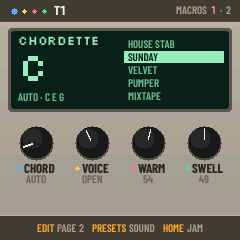
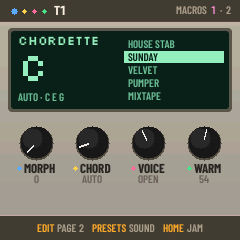
TFM-UI round 8: the report and the re-rendered screens -- NIGHT-REPORT-UI.md Round 8 (sizes per item, findings: the order-dependent audit, the dead FM6 macros, the DJ filter, the key split, OCT+ LATCH vs the rate, the pitched lane's old-save caveat, live pitch left for later), tfm-spec/built with TR

diff --git a/tests/ui_test_r6.h b/tests/ui_test_r6.h
@@ -24,9 +24,14 @@ static void r6_fresh(void)
     memset(eng_mem, 0, sizeof eng_mem);                 /* (the parts' engine state: the drum lanes, FM6 notes, strings) */
     memset(eng_mem_owner, 0, sizeof eng_mem_owner);
     memset(&fx, 0, sizeof fx); memset(&hl, 0, sizeof hl);
-    vage = 0; uni_seed = 0x1234567u; memset(mod_w, 0, sizeof mod_w);
+    vage = 0; uni_seed = 0x1234567u; MOD_W_CLEAR();
     memset(fm6_lfo, 0, sizeof fm6_lfo); memset(drw_t, 0, sizeof drw_t); memset(drw_v, 0, sizeof drw_v);   /* (FM6's LFOs, */
-    { uint32_t q; for (q = 0; q < NTRK; q++) { formant_nz[q] = 0x2545F491; phys_nz[q] = 0x6A09E667; } }   /* WHEEL's rotor, the noises) */ memset(drum_mute, 0, sizeof drum_mute);   /* (the buses: the delay and chorus write heads, the chorus phase, HALL) */
+#if FELUCCA_CPU2
+    { uint32_t q; for (q = 0; q < NTRK; q++) { formant_nz[q] = 0x2545F491; phys_nz[q] = 0x6A09E667; } }   /* WHEEL's rotor, the noises) */
+#else
+    formant_nz = 0x2545F491;                            /* (one core: one breath noise; PHYS reseeds from rng()) */
+#endif
+    memset(drum_mute, 0, sizeof drum_mute);   /* (the buses: the delay and chorus write heads, the chorus phase, HALL) */
     lim_env = 0; dc_l = dc_r = dce_l = dce_r = 0;     /* (the master limiter and its DC blockers: a loud render before held it down) */
     memset(dj_s1, 0, sizeof dj_s1); memset(dj_s2, 0, sizeof dj_s2); memset((void *)dj_f, 0, sizeof dj_f);
 }

diff --git a/NIGHT-REPORT-UI.md b/NIGHT-REPORT-UI.md
@@ -283,3 +283,20 @@ Branch `tfm-ui`: `95435e4` (1), `91ff2d2` (2 and 4: one commit, they share tfm_f
 **Tests:** tests/ui_test_r6.h (round 7 section): `test_r7_instruments`, `test_r7_noinst`, `test_r7_build`.
 
 **Suite (round 7):** tests=0 (ALL HOST TESTS PASSED), no FAIL lines, target_budget 0 (the audio ISR 8,705 against 8,285: +5 %, unchanged from round 6). 0 lint findings, both renders 0 off. Final build 503,164 B, RAM 63,224 B, pool 365,752 B. Published as the installer preview (next/), the tested release at the root unchanged.
+
+## Round 8 (ROUND-8.md: DJ, MORPH, bolder macros, three drum kits, a pitched lane, JAM's header)
+
+Branch `tfm-ui`: `725c734` (1), `6d493a8` (2), `9d54c13` (3), `049b94c` (4), `62e3b27` (5), `668447e` (6). Package `tilt-fm-ui-r8-<sha>.fwsc`. Nothing was run on an FM-1.
+
+**Flash and RAM** (app image / RAM .data+.bss; pool 365,752 B throughout): round 7 final 503,164 / 63,224. Item 1: 504,788 / 63,320. Item 2: 503,736 / 63,384 (one macro per instrument fewer). Item 3: 503,760. Item 4: 506,612. Item 5: 507,448 / 63,400. Item 6: 507,496 / 63,400 (headroom 4,184 B). Flash slot 581,564 B.
+
+1. **Hold ARP = DJ** (replaces PERFORM). K1 FILTER (left a low-pass closing, right a high-pass opening, the middle off), K2 ECHO (the delay send; past 70 % its feedback too), K3 SPACE (the reverb send), K4 DIRT (the INSERT driven and mixed in, its type kept, SOFT when it has none), all on the selected track; ALGORITHM or F#3 G#3 A#3 C#4 pick T1-T4; let go and the four glide back over 0.2 s to exactly where they were. OCT+ tapped while holding latches; OCT- puts all back now; OCT-/+ with a white key held step the roll rate. **The filter is the one new DSP**: fx.c `dj_filter`, two one-poles (12 dB/oct), skipped entirely in the middle, the same for every engine, so no instrument's own filter or macro is touched (mix_part +4.5 % of its budget). A per-instrument "the sound's own cutoff" was considered and dropped: half the instruments have no filter (FM6, PLUCK, VOX), so one filter after the voice is the only knob that does the same thing everywhere. **"OCT+ LATCH vs the roll rate"**: the spec gives OCT+ both; tapped alone it is LATCH, with a white key held (a roll running) it is the rate, which is the only time a rate matters. Moved out: the mutes (MIX has them), CAPTURE to JAM's C#5 with its length on a new SETUP row, MUTATE to hold ENV's A3 (K2 its mode; TIMER moves to B3), FILL stays on D#5. Test `test_r8_dj`; round 5's PERFORM test moved to the new keys.
+2. **MORPH is macro 1 of every instrument** and JAM's knob: 0 is the preset as set, 100 a contrasting voicing (tfm_instr.c `TFM_MORPH`: absolute targets, relative level, switches at the middle). It works from where the sound is: the values are taken as it leaves 0 and put back exactly at 0, and another macro turned while it is out moves that base. One macro per instrument went to make room (THUMP ECHO, SQUELCH GNAW, WOBBLER SPREAD, CHORDETTE AGE, RAZOR ECHO, HAZE HOLD, PIXEL TONE, TINE REL, GLINT SHIMMER, PLUCK ECHO, VOX SHIFT, WHEELHOUSE CLICK); every named preset keeps its sound (the value the old place gave is now one of its own changes). Level within 3 LU over the turn, in key at 50 and 100 (tested). **Found: the round 6 preset audit and loudness renders were order-dependent** (delay/chorus heads, HALL, engine memory, the limiter, UNISON's random phases carried over from whatever ran before). Every render now starts from the same state (`r6_fresh`). Measured repeatably, seven presets turned out too close and were moved apart (all pairs >= 0.70); level trims refitted. Test `test_r8_morph`.
+3. **Bolder macros, and tfm-spec/MACRO-RATINGS.md.** Every macro measured 0 -> 100 (the audit's distance, first preset; `R8MACRO=1` prints the table). Everything under 0.40 got wider ranges or more targets, and `test_r8_macros` holds them there (GLIDE, SLIDE and VIB excluded by name: they move pitch the measuring phrase does not play). **Found: dead macros since round 1** -- TINE DECAY, GLINT DECAY and GLINT ATTACK moved the track ADSR, which FM6 ignores (its own operator envelopes); GLINT BITE moved feedback that did nothing on these patches. Now TINE GRIT, GLINT TREM, GLINT CHORUS, GLINT BITE (drive), at 0 in the presets so they sound as before. SQUELCH WAVE is a switch. MACRO-RATINGS.md has all 12 x 8 with what each moves, before/after, and a blank RATING column for you: the next round works only on what you flag.
+4. **Three drum instruments** from the DRUM engine's own kits: THUMP LAB now plays DEEP (its five presets were on five kits), TRASH KIT on kit 10 through the INSERT's CRUSH (dented tin lids), HAND DRUMS on kit 77 (claves, the bent tom as a skin; a skins-on-wood face). They are the only kits with a cymbal among their eight lanes. Each has MORPH + 7 macros, 5 presets, colours, tag, trims; TILT's garage and chop codes play the new two; DICE's DRUMS role rolls any of the three. **White-key drums** on every TFM screen: F3..F4 the eight lanes, G4..G5 the same accented (velocity 127), the black keys never; CLASSIC and MIDI IN keep the GM map. **The key split**: the text said "F3-C4 the 8 lanes, D4-G5 the same 8 accented", which is 5 and 11 white keys; eight and eight over the 16 white keys is the only split that gives eight each. Also: the audit and loudness renders now play the beat for every drum instrument (they only did for THUMP LAB). Renders `ui_snd_trash`, `ui_snd_hand`. Test `test_r8_kits`.
+5. **A pitched drum lane**: THUMP LAB's kick (an 808 boom), TRASH KIT's and HAND DRUMS' tom take a pitch per step, -7..+7 degrees in the track's scale. On DRUMS, on that lane at a step with a hit there, K2 reads PITCH (else LANE); the grid marks it up or down. Stored in note[0] of a hits-only step (64 + degrees, 0 none), which nothing read before: **no format change**, a save keeps it. Clearing a step (and recording into an empty one) now clears note[0], and folding notes into hits leaves a hits-only step's note[0] alone, so adding another lane's hit keeps the pitch. **Caveat**: a song saved by an earlier build could hold an old note in note[0] of a step whose notes were deleted (step_clear never cleared it); on a drum instrument's pitched lane that step would now play shifted. Rare (a melodic step turned into a drum hit), and fixed by turning K2 to 0 there. **Live pitch from the keys is left for later** (the keys are the eight lanes now; a pitched lane on keys needs its own mode). Test `test_r8_pitched_lane`.
+6. **No timer in JAM's header** (JAM's display shows it); every other screen keeps its small timer. Test `test_r8_jam_timer`.
+
+**Tests:** tests/ui_test_r6.h (round 8 section): `test_r8_dj`, `test_r8_morph`, `test_r8_macros`, `test_r8_kits`, `test_r8_pitched_lane`, `test_r8_jam_timer`.
+
+**Suite (round 8):** tests=0 (ALL HOST TESTS PASSED), no FAIL lines, target_budget 0 (the audio ISR 8,593 against 8,285: +3.7 %, within the +10 %). The first run failed to build ui_test in the FELUCCA_CPU2=0 configuration: item 2's `r6_fresh` reset per-part seeds that the one-core build has as single values; fixed in the test (this commit), all four ui_test configurations build and pass. 0 lint findings, alignment 0 off. Final build 507,496 B, RAM 63,400 B, pool 365,752 B. Published as the installer preview (next/), the tested release at the root unchanged.
